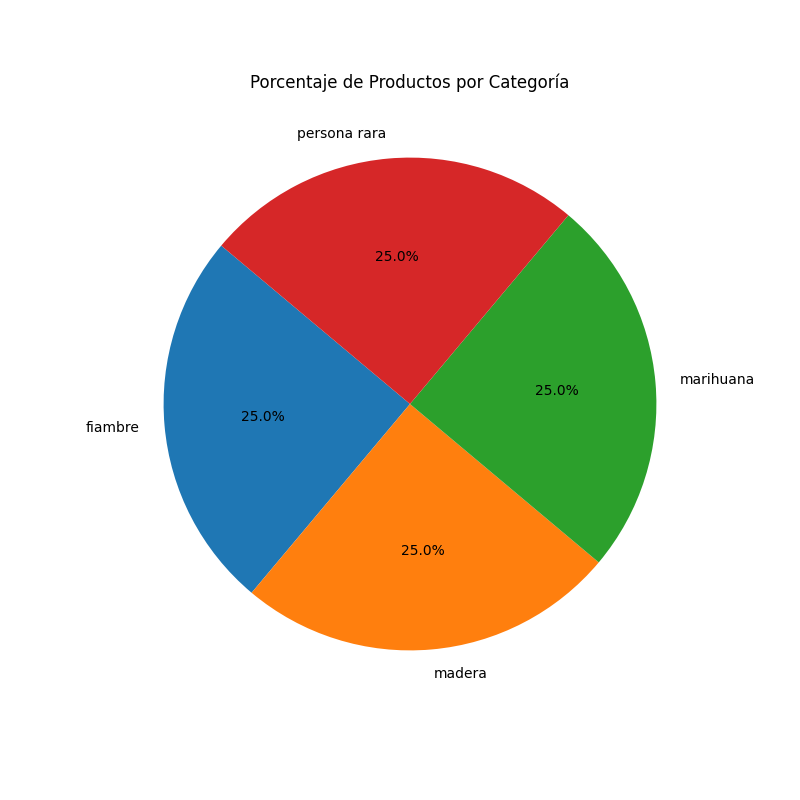
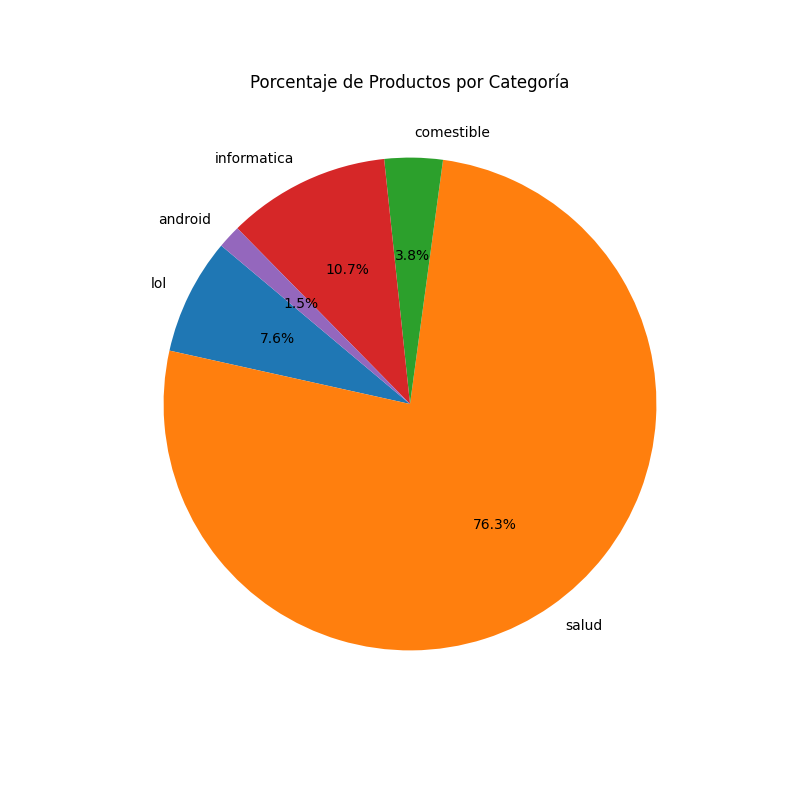
Modificando graficos de estadisticas

diff --git a/vista.py b/vista.py
@@ -8,6 +8,8 @@ from kivy.uix.label import Label
 from kivy.graphics import Color, Rectangle
 from kivy.uix.button import Button
 from modelo import BaseDatos  
+import matplotlib.pyplot as plt
+import seaborn as sns
 
 # Clases que dan origen a las ventanas       
 class MenuScreen(Screen):
@@ -15,6 +17,7 @@ class MenuScreen(Screen):
     pass
 
 class HomeScreen(Screen):  
+    # Clase de la pagina -Home-, donde figurarán cada item de la base de datos
     def on_enter(self, **kw):
         super(HomeScreen, self).on_enter(**kw)
         self.cargar_productos()
@@ -46,8 +49,8 @@ class HomeScreen(Screen):
                 box.add_widget(Label(text=f"{proveedor}", color=(0, 0, 0, 1), font_size=18))
                 box.add_widget(Label(text=f"{categoria}", color=(0, 0, 0, 1), font_size=18))
                 
-                # Botón de modificar
-                editar_btn = Button(size_hint=(None, None), size=(50, 50))
+                # Botón de modificar {´´}¨´{´¨¨'?¡{o}}
+                editar_btn = Button(size_hint=(None, None), size=(45, 45))
                 editar_btn.background_normal = 'archivos/img/editar.png'  
                 editar_btn.producto_id = producto_id
                 editar_btn.bind(on_press=self.editar_producto)
@@ -55,7 +58,7 @@ class HomeScreen(Screen):
                 
                 # Botón de eliminar
                 eliminar_btn = Button(text="Eliminar", size_hint=(None, None), size=(100, 30))
-                eliminar_btn.producto_id = producto_id  # Guardar el producto_id en el botón
+                eliminar_btn.producto_id = producto_id  
                 eliminar_btn.bind(on_press=self.eliminar_producto)
                 box.add_widget(eliminar_btn)
 
@@ -66,12 +69,12 @@ class HomeScreen(Screen):
             
     def eliminar_producto(self, instance):
         producto_id = instance.producto_id  # Obtener el producto_id del botón
-        print(f"Intentando eliminar producto con ID: {producto_id}")  # Depuración
+        print(f"Intentando eliminar producto con ID: {producto_id}")  
         try:
             db = BaseDatos()
             db.borrar(producto_id)
             db.cerrar_db()
-            print(f"Producto con ID {producto_id} eliminado exitosamente.")  # Depuración
+            print(f"Producto con ID {producto_id} eliminado exitosamente.")  
             self.cargar_productos()  # Recargar productos después de eliminar
         except Exception as e:
             print(f"Error al eliminar producto: {e}")
@@ -90,7 +93,7 @@ class HomeScreen(Screen):
        
 
 class AltaScreen(Screen):
-    # Clase de la pagina - Alta
+    # Clase de la pagina - Alta de productos
     def agregar_producto(self, producto, cantidad, costo, precio_venta, proveedor, categoria):
         try:
             if not producto or not cantidad or not costo or not precio_venta or not proveedor or not categoria:
@@ -110,6 +113,7 @@ class AltaScreen(Screen):
             print(f"Error al agregar producto: {e}")
 
 class EditScreen(Screen):
+    # Clase de la pagina - Editar/Modificar un productos en particular
     def cargar_datos(self, producto):
         producto_id, nombre, cantidad, costo, precio_venta, proveedor, categoria = producto
         self.ids.producto_id.text = str(producto_id)
@@ -142,10 +146,33 @@ class EstadisticasScreen(Screen):
     def on_enter(self, *args):
         base_datos = BaseDatos()
         stats = base_datos.obtener_estadisticas()
+        # Estadísticas
         self.ids.total_productos.text = f"Cantidad Total de Productos: {stats['total_productos']}"
         self.ids.mayor_stock.text = f"Producto con Mayor Stock: {stats['mayor_stock'][0]} ({stats['mayor_stock'][1]})"
         self.ids.menor_stock.text = f"Producto con Menor Stock: {stats['menor_stock'][0]} ({stats['menor_stock'][1]})"
         self.ids.valor_total_inventario.text = f"Costos Totales: ${stats['valor_total_inventario']}"
         self.ids.ingresos_potenciales.text = f"Ingresos Potenciales (ventas): ${stats['ingresos_potenciales']}" 
-        img = self.ids.img_stats
-        img.clear_widgets()    
+        
+        # Gráficos
+        base_datos.cursor.execute('SELECT categoria, cantidad FROM stock')
+        productos = base_datos.cursor.fetchall()
+        
+        categorias = [producto[0] for producto in productos]
+        cantidades = [producto[1] for producto in productos]
+        
+        # Gráfico de Barras
+        plt.figure(figsize=(8, 8))
+        sns.barplot(x=categorias, y=cantidades)
+        plt.title('Cantidad de Productos por Categoría')
+        plt.xlabel('Categoría')
+        plt.ylabel('Cantidad')
+        plt.savefig('archivos/img/grafico_barras.png')
+        plt.close()
+
+        # Gráfico de Torta
+        plt.figure(figsize=(8, 8))
+        plt.pie(cantidades, labels=categorias, autopct='%1.1f%%', startangle=140)
+        plt.title('Porcentaje de Productos por Categoría')         
+        plt.savefig('archivos/img/grafico_torta.png')
+        plt.close()
+        base_datos.cerrar_db()

diff --git a/modelo.py b/modelo.py
@@ -3,8 +3,6 @@
 
 # Librerias
 import sqlite3
-import matplotlib.pyplot as plt
-import seaborn as sns
 
 # Clases
 class BaseDatos():
@@ -114,26 +112,6 @@ class BaseDatos():
         ingresos_potenciales = self.cursor.fetchone()[0]
 
         self.guardar_cambios()
-        
-        # Crear gráficos
-        categorias = [categoria for categoria, _ in productos_por_categoria]
-        cantidades = [cantidad for _, cantidad in productos_por_categoria]
-        
-        # Gráfico de Barras
-        plt.figure(figsize=(8, 8))
-        sns.barplot(x=categorias, y=cantidades)
-        plt.title('Cantidad de Productos por Categoría')
-        plt.xlabel('Categoría')
-        plt.ylabel('Cantidad')
-        plt.savefig('archivos/img/grafico_barras.png')
-        plt.close()
-
-        # Gráfico de Torta
-        plt.figure(figsize=(8, 8))
-        plt.pie(cantidades, labels=categorias, autopct='%1.1f%%', startangle=140)
-        plt.title('Porcentaje de Productos por Categoría')
-        plt.savefig('archivos/img/grafico_torta.png')
-        plt.close()
         
         return {
             'total_productos': total_productos,

diff --git a/controlador.py b/controlador.py
@@ -20,7 +20,7 @@ class InventarioApp(App):
     
     def build(self):
         sm = ScreenManager()
-        db = BaseDatos()  # Crear una instancia de la base de datos
+        db = BaseDatos()  # Instancia de la base de datos
         sm.add_widget(MenuScreen(name='menu'))
         sm.add_widget(HomeScreen(name='home'))
         sm.add_widget(AltaScreen(name='alta'))
@@ -39,6 +39,7 @@ class InventarioApp(App):
         db.insertar(producto, int(cantidad), float(costo), float(precio_venta), proveedor, categoria)
         
     def open_link(self, url):
+        # Abrir link externos que te lleven al navegador predeterminado
         webbrowser.open(url)
 
 if __name__ == '__main__':
